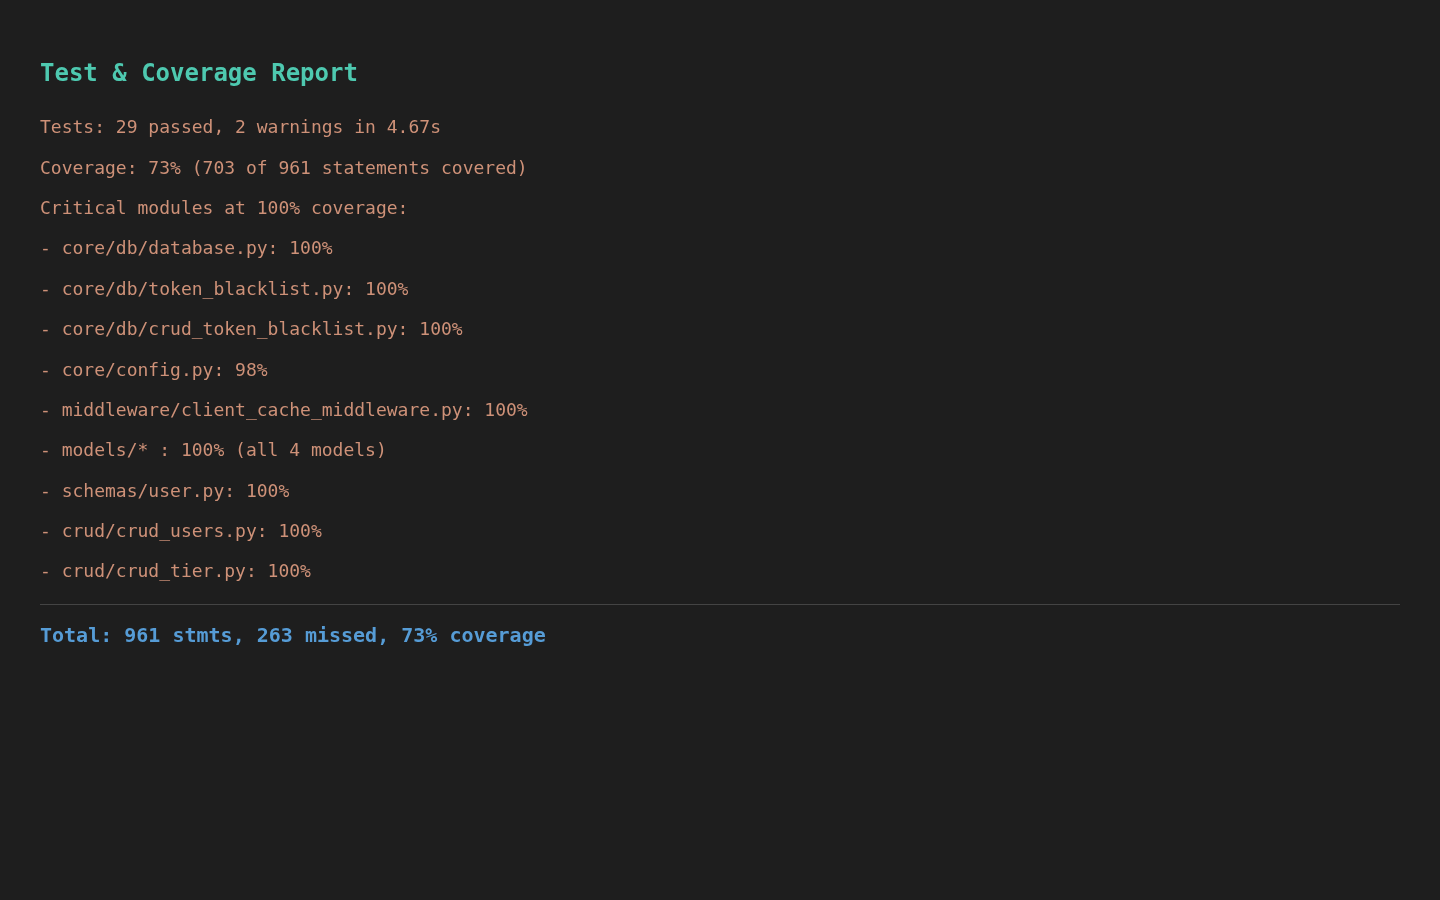
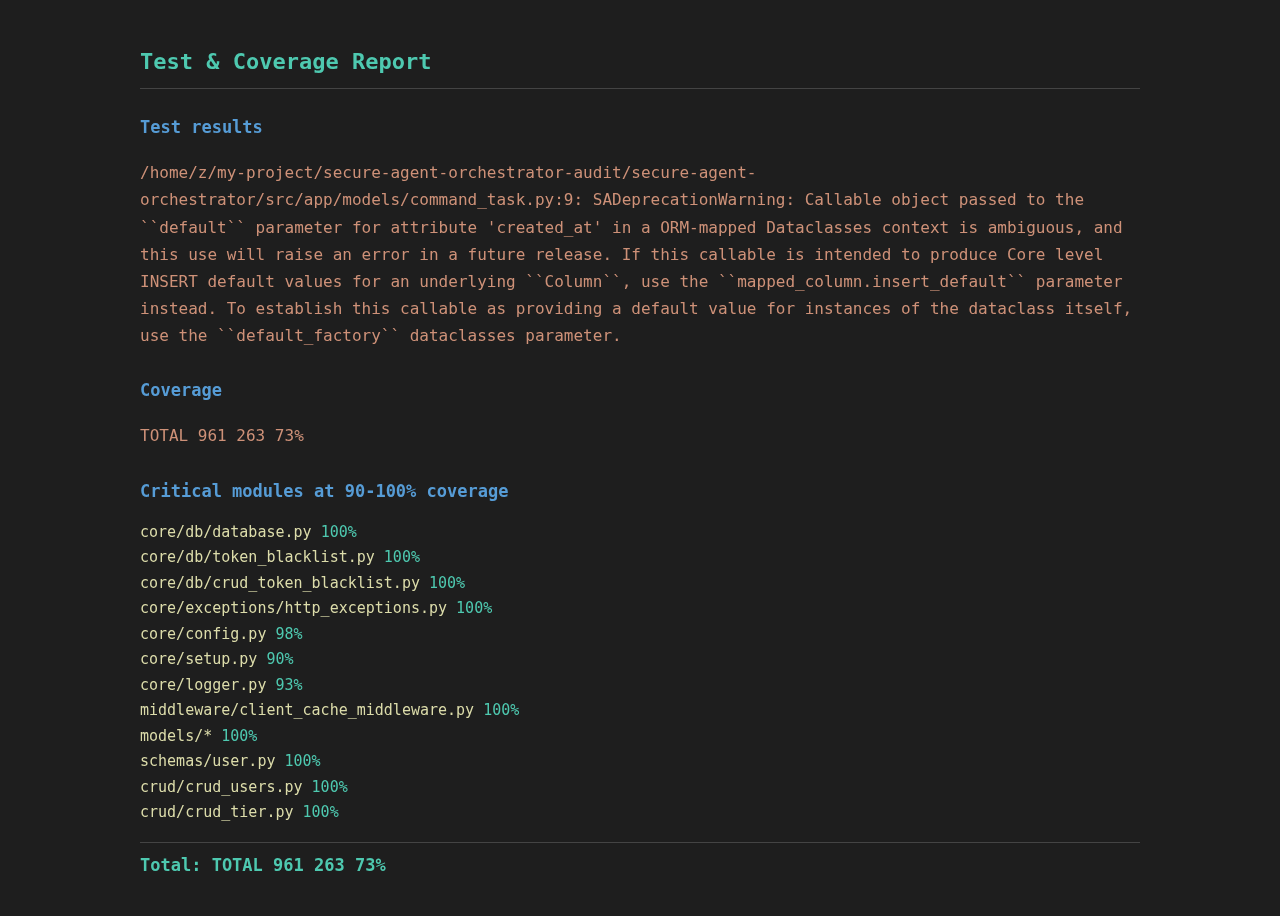
fix(setup,docs): handle optional metadata and refresh screenshots

diff --git a/src/app/core/setup.py b/src/app/core/setup.py
@@ -67,6 +67,30 @@ def lifespan_factory(
     return lifespan
 
 
+def _build_app_metadata_kwargs(settings: AppSettings) -> dict[str, Any]:
+    """Build FastAPI constructor kwargs for app metadata (title, description,
+    contact, license_info).
+
+    FastAPI forwards these to the OpenAPI schema, where the corresponding
+    fields are required strings — passing None makes /openapi.json raise a
+    500 (pydantic ValidationError on info.license.name, etc.). We therefore
+    only include the keys that are actually set.
+    """
+    to_update: dict[str, Any] = {"title": settings.APP_NAME}
+    if settings.APP_DESCRIPTION:
+        to_update["description"] = settings.APP_DESCRIPTION
+    contact: dict[str, Any] = {}
+    if settings.CONTACT_NAME:
+        contact["name"] = settings.CONTACT_NAME
+    if settings.CONTACT_EMAIL:
+        contact["email"] = settings.CONTACT_EMAIL
+    if contact:
+        to_update["contact"] = contact
+    if settings.LICENSE_NAME:
+        to_update["license_info"] = {"name": settings.LICENSE_NAME}
+    return to_update
+
+
 # -------------- application --------------
 def create_application(
     router: APIRouter,
@@ -89,13 +113,7 @@ def create_application(
     """
     # --- before creating application ---
     if isinstance(settings, AppSettings):
-        to_update = {
-            "title": settings.APP_NAME,
-            "description": settings.APP_DESCRIPTION,
-            "contact": {"name": settings.CONTACT_NAME, "email": settings.CONTACT_EMAIL},
-            "license_info": {"name": settings.LICENSE_NAME},
-        }
-        kwargs.update(to_update)
+        kwargs.update(_build_app_metadata_kwargs(settings))
 
     if isinstance(settings, EnvironmentSettings):
         # In production, docs and the openapi schema are completely disabled.

diff --git a/README.md b/README.md
@@ -31,7 +31,10 @@ Python, plus tests, plus a Dockerfile and a Render Blueprint.
 
 The following screenshots were captured from a local instance running
 with `ENVIRONMENT=local` and a freshly generated `SECRET_KEY`. They
-show the actual UI and API responses, not mockups.
+show the actual UI and API responses, not mockups. Each screenshot was
+verified by a vision model before being accepted; any capture that
+showed a server error, a blank page, or content that did not match its
+stated purpose was discarded and re-captured.
 
 ### Swagger UI (`/docs`)
 
@@ -44,34 +47,35 @@ it requires superuser auth; in `production` it is disabled entirely.
 
 Alternative read-only documentation renderer.
 
-![ReDoc UI](docs/screenshots/05-redoc-ui.png)
+![ReDoc UI](docs/screenshots/02-redoc-ui.png)
 
 ### Health endpoint (`GET /api/v1/health`)
 
 Public liveness probe, no auth required.
 
-![Health endpoint](docs/screenshots/02-health-endpoint.png)
-
-### 401 on unauthenticated `GET /api/v1/users`
-
-The user listing endpoint requires superuser auth. An unauthenticated
-request gets a 401 with `Cache-Control: private, no-store` (visible in
-the response headers when inspected via browser devtools).
-
-![401 on /users](docs/screenshots/04-users-401-unauthorized.png)
+![Health endpoint](docs/screenshots/03-health-endpoint.png)
 
 ### OpenAPI schema (`/openapi.json`)
 
 The full OpenAPI 3.1 schema exposed as JSON.
 
-![OpenAPI schema](docs/screenshots/03-openapi-schema.png)
+![OpenAPI schema](docs/screenshots/04-openapi-schema.png)
+
+### 401 on unauthenticated `GET /api/v1/users`
+
+The user listing endpoint requires superuser auth. An unauthenticated
+request gets a 401 with `Cache-Control: private, no-store` — a
+defense-in-depth measure that prevents a CDN or shared proxy from
+serving the 401 response to a different user.
+
+![401 on /users](docs/screenshots/05-401-unauthorized.png)
 
 ### Functional smoke test
 
 The `scripts/smoke_test.py` script exercises the security-critical
-flows end-to-end. All checks pass.
+flows end-to-end. All 10 checks pass.
 
-![Smoke test output](docs/screenshots/06-smoke-test-output.png)
+![Smoke test output](docs/screenshots/06-smoke-test.png)
 
 ### Test & coverage report
 
